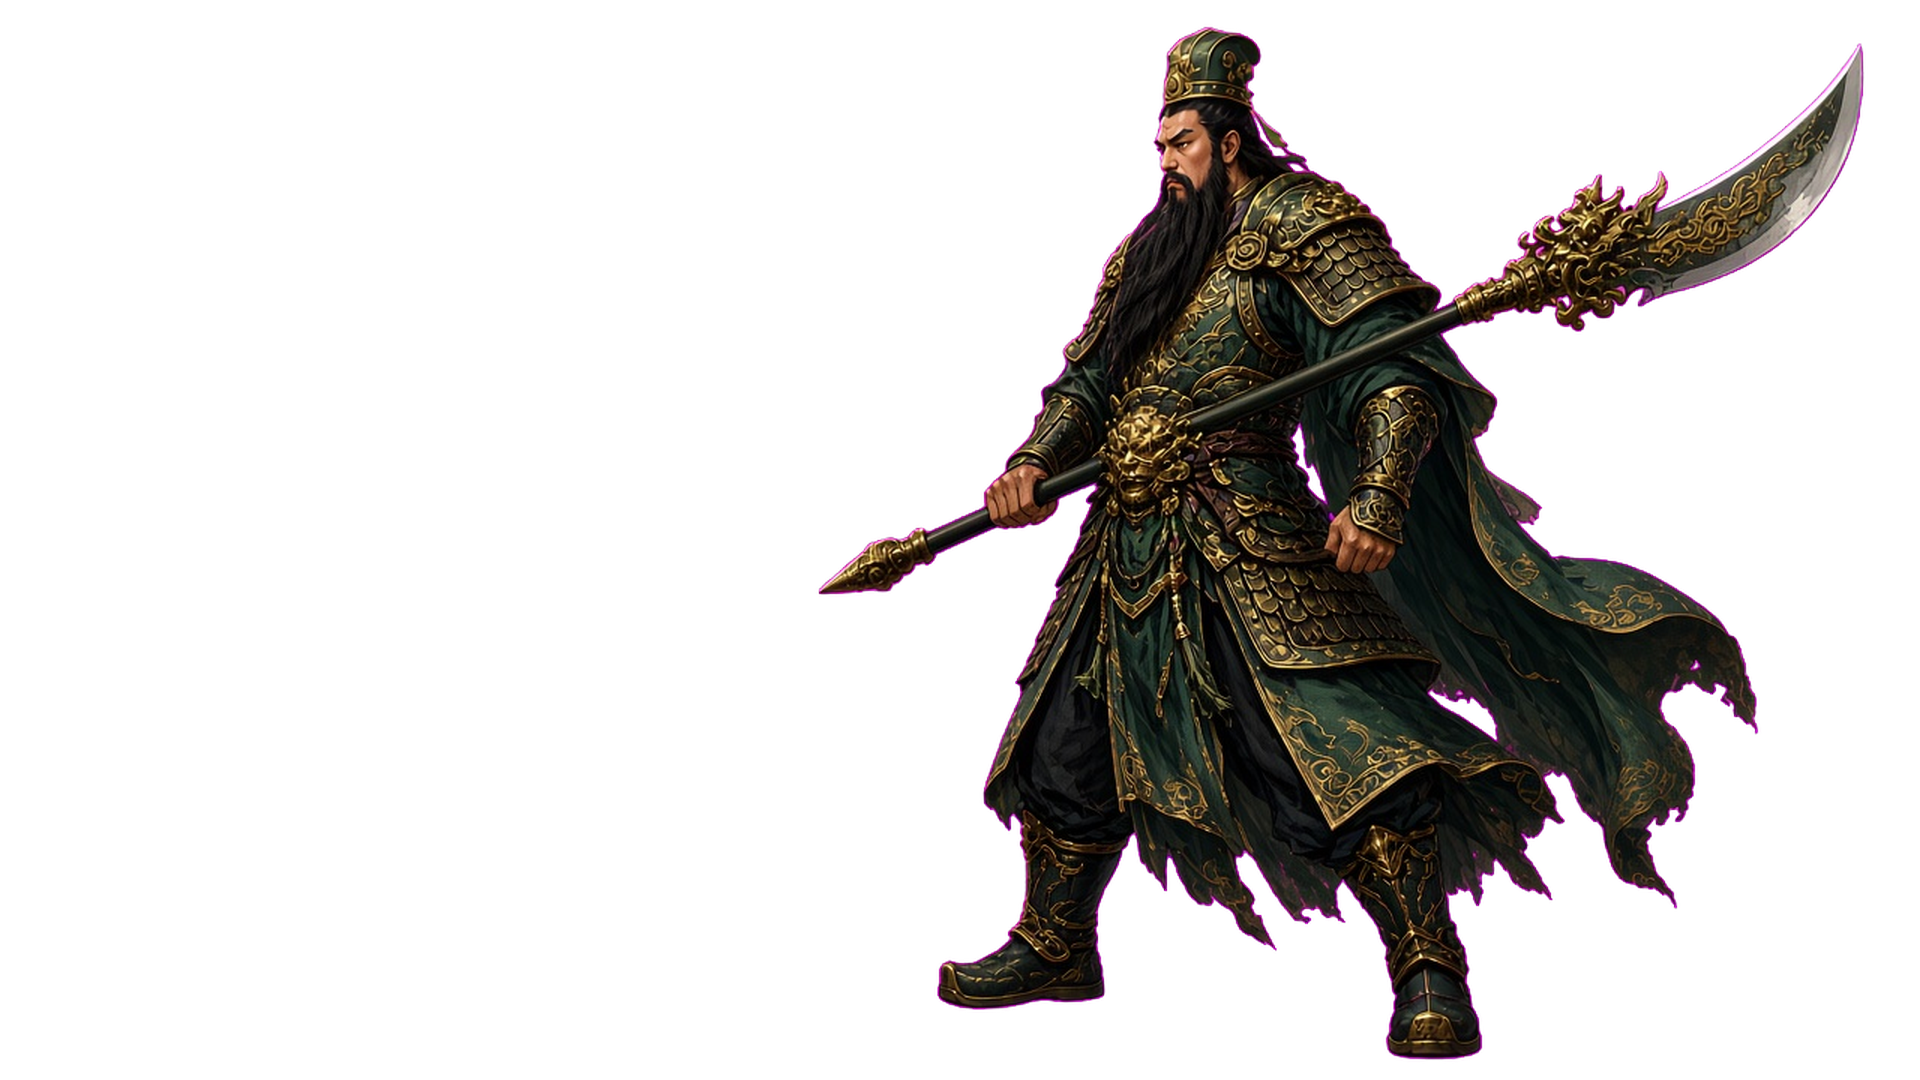
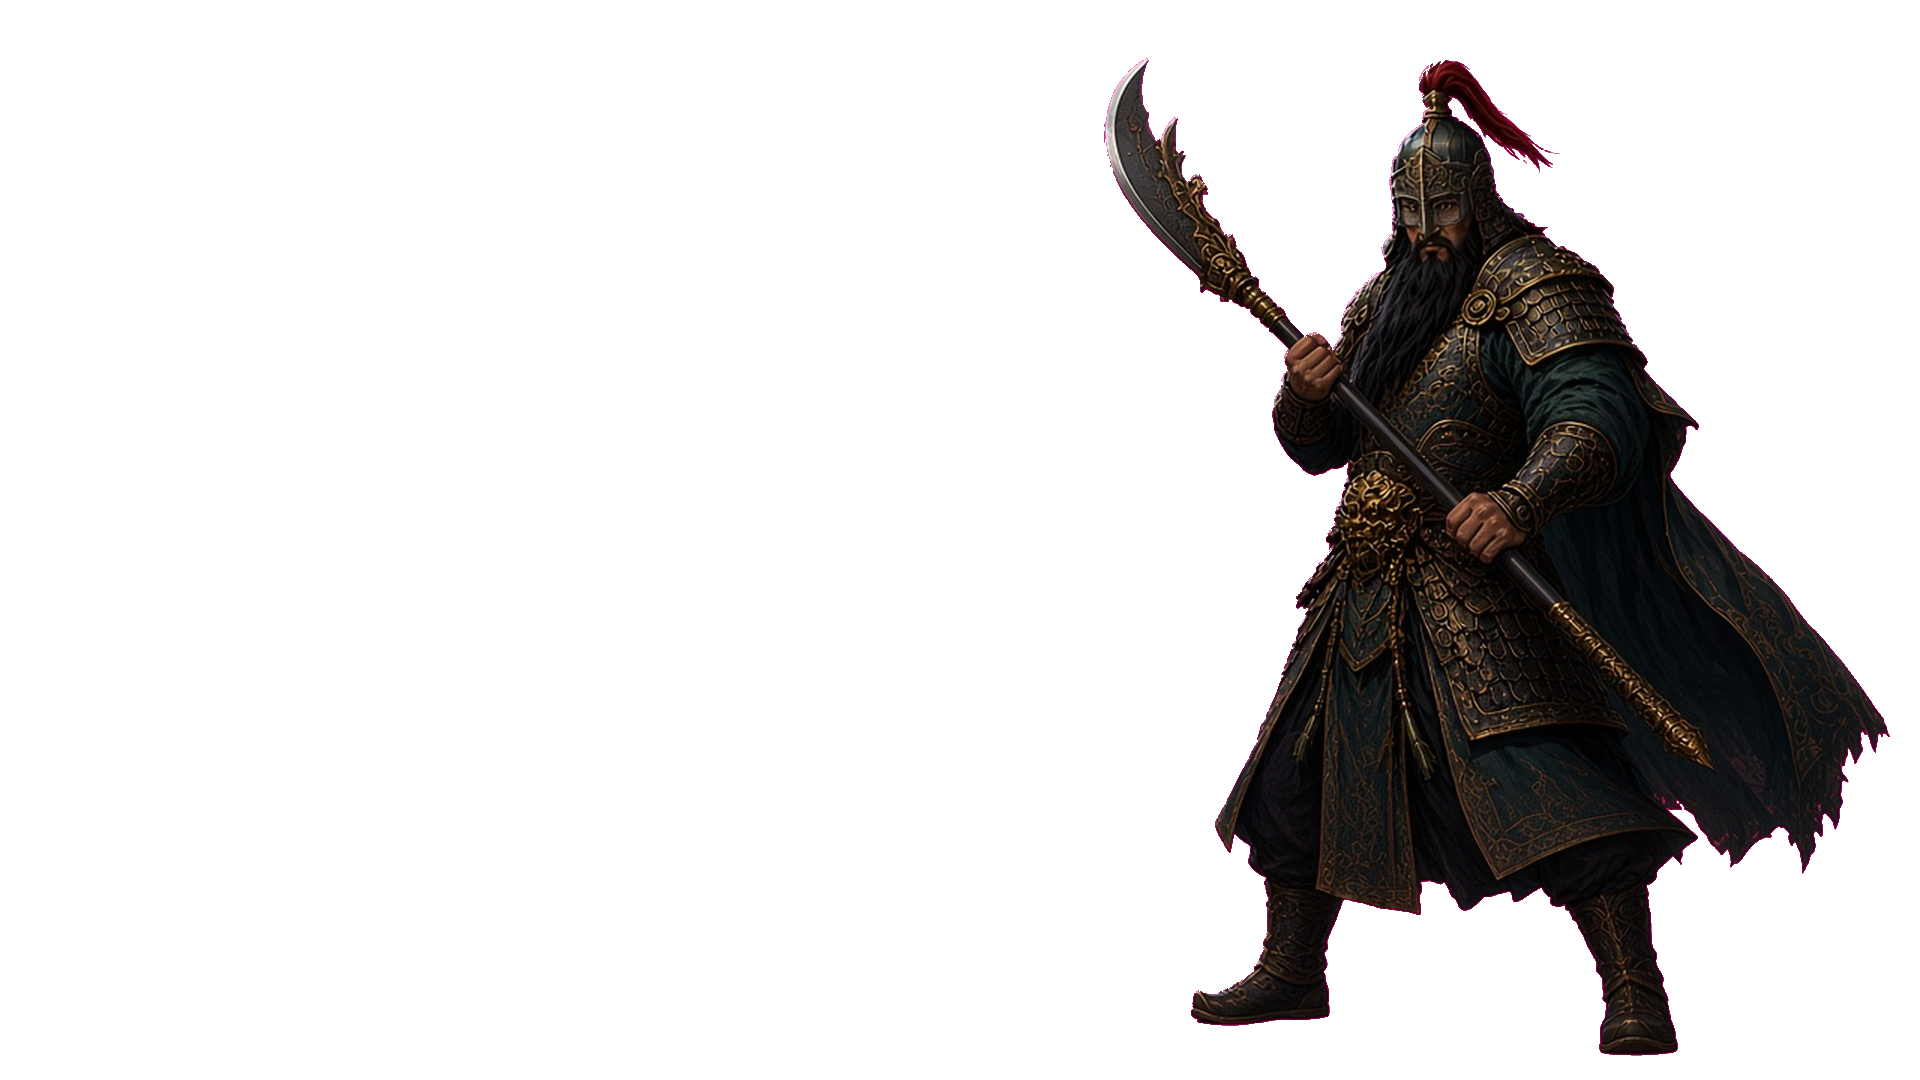
feat(jade-gate): cut the Vanguard exchange with a shot list
Eight beats over ten seconds: an establishing track, a low close-up, a push-in, an over-the-shoulder reverse, a whip-pan, a blade close-up with a short shake, then a pull-back to a wide. Zhao Yun stays screen-left. The rival's polearm stays in his hands.

Changed region(s): [[0.4062, 0.0306, 1.0, 1.0]]

diff --git a/prototype/jade-gate/capscreens-fight-designs/fight-designs.js b/prototype/jade-gate/capscreens-fight-designs/fight-designs.js
@@ -13,21 +13,111 @@ const CAMERAS = {
 };
 
 const ORDER = ["standoff", "windup", "charge", "impact", "pass", "hold", "aftermath"];
-/** Layered Vanguard exchange. Zooms stay near 1 so the gate stays readable. ~10.4s. */
+/** Layered Vanguard shot list. ~10s. Yun stays screen-left, the vanguard screen-right. */
+const EASE = {
+  track: "cubic-bezier(0.25, 0.1, 0.25, 1)",
+  push: "cubic-bezier(0.22, 0.7, 0.2, 1)",
+  whip: "cubic-bezier(0.55, 0.05, 0.25, 1)",
+  pull: "cubic-bezier(0.16, 0.84, 0.3, 1)",
+  cut: "linear",
+};
 const LAYER_CAMERAS = {
-  approach: { zoom: 1.0, x: 50, y: 54, ease: 0, label: "wide, gate readable", ms: 1600 },
-  feint: { zoom: 1.04, x: 48, y: 52, ease: 480, label: "feint, gate holds", ms: 1400 },
-  parry: { zoom: 1.06, x: 50, y: 50, ease: 260, label: "parry, gate holds", ms: 1200 },
-  exchange: { zoom: 1.08, x: 50, y: 50, ease: 240, label: "exchange, gate holds", ms: 1400 },
-  impact: { zoom: 1.12, x: 50, y: 48, ease: 0, label: "tip-clash, gate still reads", ms: 1600 },
-  follow: { zoom: 1.04, x: 50, y: 52, ease: 400, label: "follow-through", ms: 1400 },
-  aftermath: { zoom: 1.0, x: 50, y: 54, ease: 640, label: "wide aftermath", ms: 1800 },
+  approach: {
+    size: "wide",
+    angle: "frontal",
+    move: "slow track",
+    easeName: "track",
+    from: { zoom: 1.03, x: 46, y: 52 },
+    zoom: 1.05, x: 54, y: 50,
+    ease: 1550,
+    ms: 1700,
+    label: "establishing wide · frontal · slow track",
+  },
+  windup: {
+    size: "CU",
+    angle: "low, Yun",
+    move: "hard cut, hold",
+    easeName: "cut",
+    zoom: 1, x: 50, y: 50,
+    ease: 0,
+    ms: 1000,
+    file: "angle-low.png",
+    label: "face CU · low angle · hold",
+  },
+  feint: {
+    size: "medium two-shot",
+    angle: "frontal",
+    move: "push-in",
+    easeName: "push",
+    from: { zoom: 1.22, x: 46, y: 50 },
+    zoom: 1.52, x: 50, y: 42,
+    ease: 900,
+    ms: 1200,
+    label: "medium two-shot · frontal · push-in",
+  },
+  ots: {
+    size: "OTS",
+    angle: "behind Yun",
+    move: "hard cut",
+    easeName: "cut",
+    zoom: 1, x: 50, y: 50,
+    ease: 0,
+    ms: 1200,
+    file: "angle-ots.png",
+    label: "over-shoulder · reverse · cut",
+  },
+  exchange: {
+    size: "medium two-shot",
+    angle: "frontal",
+    move: "whip-pan",
+    easeName: "whip",
+    from: { zoom: 1.42, x: 36, y: 44 },
+    zoom: 1.5, x: 64, y: 42,
+    ease: 220,
+    ms: 1000,
+    label: "medium two-shot · frontal · whip-pan",
+  },
+  impact: {
+    size: "CU",
+    angle: "frontal, blades",
+    move: "hold, gentle shake",
+    easeName: "cut",
+    zoom: 1, x: 50, y: 50,
+    ease: 0,
+    ms: 1600,
+    file: "angle-blades.png",
+    shake: true,
+    label: "blade CU · frontal · hold",
+  },
+  follow: {
+    size: "medium to wide",
+    angle: "frontal",
+    move: "pull-back",
+    easeName: "pull",
+    from: { zoom: 1.48, x: 50, y: 44 },
+    zoom: 1.06, x: 50, y: 54,
+    ease: 1100,
+    ms: 1400,
+    label: "pull-back · frontal · to wide",
+  },
+  aftermath: {
+    size: "wide",
+    angle: "frontal",
+    move: "settle",
+    easeName: "pull",
+    from: { zoom: 1.06, x: 50, y: 54 },
+    zoom: 1, x: 50, y: 56,
+    ease: 700,
+    ms: 900,
+    label: "wide · frontal · settle",
+  },
 };
 const LAYER_BEATS = Object.keys(LAYER_CAMERAS);
 const LAYER_LABELS = {
   approach: "Approach",
+  windup: "Wind-up",
   feint: "Feint",
-  parry: "Parry",
+  ots: "Reverse",
   exchange: "Exchange",
   impact: "Impact",
   follow: "Follow",
@@ -85,6 +175,7 @@ let beat = "approach";
 let playing = false;
 let timer = 0;
 let insertTimer = 0;
+let camToken = 0;
 
 function rel(path) {
   return `${ROOT}${path}`;
@@ -104,15 +195,38 @@ function activeOrder() {
   return layered && design.cutout ? LAYER_BEATS : ORDER;
 }
 
+function writeCam(camera, frame) {
+  camera.style.setProperty("--cam-x", `${frame.x}%`);
+  camera.style.setProperty("--cam-y", `${frame.y}%`);
+  camera.style.setProperty("--cam-z", String(frame.zoom));
+}
+
 function applyCamera(name) {
   const cam = cameraFor(name);
   const stage = $("stage");
   const camera = $("camera");
-  stage.dataset.cut = cam.ease === 0 ? "hard" : "ease";
-  camera.style.setProperty("--cam-ms", `${cam.ease}ms`);
-  camera.style.setProperty("--cam-x", `${cam.x}%`);
-  camera.style.setProperty("--cam-y", `${cam.y}%`);
-  camera.style.setProperty("--cam-z", String(cam.zoom));
+  const token = ++camToken;
+  stage.dataset.move = cam.easeName || "";
+  camera.style.setProperty("--cam-ease", EASE[cam.easeName] || EASE.push);
+  if (!cam.from) {
+    stage.dataset.cut = cam.ease ? "ease" : "hard";
+    camera.style.setProperty("--cam-ms", `${cam.ease || 0}ms`);
+    writeCam(camera, cam);
+    return cam;
+  }
+  const start = { ...cam, ...cam.from };
+  stage.dataset.cut = "hard";
+  camera.style.setProperty("--cam-ms", "0ms");
+  writeCam(camera, start);
+  requestAnimationFrame(() => {
+    if (token !== camToken) return;
+    requestAnimationFrame(() => {
+      if (token !== camToken) return;
+      stage.dataset.cut = "ease";
+      camera.style.setProperty("--cam-ms", `${cam.ease}ms`);
+      writeCam(camera, cam);
+    });
+  });
   return cam;
 }
 
@@ -143,7 +257,20 @@ function showBaked(name, read) {
 
 function showLayers(name, read) {
   const stage = $("stage");
+  const cam = cameraFor(name);
   stage.dataset.source = "layered";
+  const fx = $("layer-fx");
+  fx.hidden = true;
+  if (cam.file) {
+    $("layers").hidden = true;
+    const plate = $("plate");
+    plate.hidden = false;
+    plate.src = `${CUTOUT}${cam.file}`;
+    plate.alt = `${design.title}, Zhao Yun with a jian, ${read}`;
+    $("cam-read").textContent = `${read} · layered`;
+    $("status").textContent = `${design.title} · layered · ${read} · ${CUTOUT}${cam.file}`;
+    return;
+  }
   $("plate").hidden = true;
   $("layers").hidden = false;
   $("layer-bg").src = `${CUTOUT}bg.png`;
@@ -151,15 +278,7 @@ function showLayers(name, read) {
   $("layer-hero").alt = `${design.title}, Zhao Yun with a jian, ${read}`;
   $("layer-rival").src = `${CUTOUT}rival-${name}.png`;
   $("layer-rival").alt = `${design.title}, vanguard, ${read}`;
-  const fx = $("layer-fx");
   const files = [`bg.png`, `hero-${name}.png`, `rival-${name}.png`];
-  if (name === "impact") {
-    fx.src = `${CUTOUT}fx-impact.png`;
-    fx.hidden = false;
-    files.push("fx-impact.png");
-  } else {
-    fx.hidden = true;
-  }
   $("cam-read").textContent = `${read} · layered`;
   $("status").textContent = `${design.title} · layered · ${read} · ${CUTOUT} (${files.join(", ")})`;
 }
@@ -174,7 +293,8 @@ function show(name, { fx = false } = {}) {
   }
   if (layered && design.cutout && LAYER_BEATS.includes(name)) showLayers(name, read);
   else showBaked(name, read);
-  if (name === "impact" && fx) hit();
+  if (cam.shake && fx) hit(cam);
+  else if (name === "impact" && fx) hit(cam);
   else clearHit();
 }
 
@@ -186,17 +306,20 @@ function restart(node, className) {
 
 function clearHit() {
   clearTimeout(insertTimer);
-  $("stage").classList.remove("quake");
+  $("stage").classList.remove("quake", "quake-soft");
   $("flash").classList.remove("on");
   $("impact-frame").classList.remove("boom");
   $("insert").classList.remove("flash");
   $("insert").hidden = true;
 }
 
-function hit() {
+function hit(cam) {
   clearHit();
+  if (layered && design.cutout) {
+    if (cam && cam.shake) restart($("stage"), "quake-soft");
+    return;
+  }
   restart($("stage"), "quake");
-  if (layered && design.cutout) return;
   restart($("flash"), "on");
   restart($("impact-frame"), "boom");
   if (!design.insert) return;
@@ -285,6 +408,12 @@ function preload(item) {
     image.src = `${CUTOUT}${file}`;
   }
   for (const name of LAYER_BEATS) {
+    const cam = LAYER_CAMERAS[name];
+    if (cam.file) {
+      const image = new Image();
+      image.src = `${CUTOUT}${cam.file}`;
+      continue;
+    }
     for (const who of ["hero", "rival"]) {
       const image = new Image();
       image.src = `${CUTOUT}${who}-${name}.png`;

diff --git a/prototype/jade-gate/capscreens-fight-designs/fight-designs.css b/prototype/jade-gate/capscreens-fight-designs/fight-designs.css
@@ -80,8 +80,8 @@ h1 {
   inset: 0;
   transform-origin: var(--cam-x, 50%) var(--cam-y, 46%);
   transform: scale(var(--cam-z, 1));
-  transition: transform var(--cam-ms, 480ms) cubic-bezier(0.22, 0.7, 0.2, 1),
-    transform-origin var(--cam-ms, 480ms) ease;
+  transition: transform var(--cam-ms, 480ms) var(--cam-ease, cubic-bezier(0.22, 0.7, 0.2, 1)),
+    transform-origin var(--cam-ms, 480ms) var(--cam-ease, cubic-bezier(0.22, 0.7, 0.2, 1));
 }
 
 .stage[data-cut="hard"] .camera { transition: none; }
@@ -179,6 +179,7 @@ h1 {
 }
 
 .stage.quake { animation: cam-quake 0.42s linear both; }
+.stage.quake-soft { animation: cam-quake-soft 0.7s ease-out both; }
 
 .flash {
   position: absolute;
@@ -253,6 +254,12 @@ a { color: var(--muted); }
   80% { translate: 0.35% -0.2%; }
 }
 
+@keyframes cam-quake-soft {
+  0%, 100% { translate: 0 0; }
+  30% { translate: -0.35% 0.18%; }
+  60% { translate: 0.28% -0.12%; }
+}
+
 @keyframes white-flash {
   0% { opacity: 0; }
   18% { opacity: 0.92; }
@@ -286,6 +293,7 @@ a { color: var(--muted); }
 
 @media (prefers-reduced-motion: reduce) {
   .stage.quake,
+  .stage.quake-soft,
   .flash.on,
   .impact-frame.boom,
   .impact-frame.boom::before,

diff --git a/prototype/jade-gate/capscreens-fight-designs/preview.html b/prototype/jade-gate/capscreens-fight-designs/preview.html
@@ -9,7 +9,7 @@
 <body>
 <main>
   <h1>Fight designs</h1>
-  <p class="lede">V1 animatic on every fight: the camera crops the baked plates. Gate Vanguard Clash defaults to a layered exchange of about ten seconds — approach, feint, parry, a second exchange, the tip clash, follow-through, aftermath. The gate, banners, and night stay readable. Zhao Yun is on the left with a jian. The other four fights stay on the baked plates.</p>
+  <p class="lede">V1 animatic on every fight: the camera crops the baked plates. Gate Vanguard Clash plays a ten-second exchange with an establishing track, a low close-up, a push-in, an over-the-shoulder reverse, a whip-pan, a blade close-up with a short shake, then a pull-back to a wide. Zhao Yun stays on the left with a jian. The other four fights stay on the baked plates.</p>
   <div id="cards" class="cards"></div>
   <div id="stage" class="stage" data-beat="standoff">
     <div id="camera" class="camera">

diff --git a/prototype/jade-gate/capscreens-fight-designs/README.md b/prototype/jade-gate/capscreens-fight-designs/README.md
@@ -15,19 +15,22 @@ The four fights without cutouts, and Vanguard when the toggle is set to baked pl
 
 Baked playback also opens on the shot standoff when that plate exists, and flashes pass and hold between impact and aftermath.
 
-## Vanguard layers
+## Vanguard shot list
 
-About 10.4 seconds. The camera stays wide enough that the gate, banners, and night stay recognizable. Impact only tightens to 1.12.
+Ten seconds. Zhao Yun stays screen-left and the vanguard screen-right. Wides keep the gate readable. The blade close-up is its own plate, with a small spark in the painting, not a full-frame white burst.
 
-1. **approach** — 1.6s, wide
-2. **feint** — 1.4s
-3. **parry** — 1.2s
-4. **exchange** — 1.4s
-5. **impact** — 1.6s, tip clash, small spark, gate still reads
-6. **follow** — 1.4s, follow-through
-7. **aftermath** — 1.8s, wide
+| Beat | Time | Size | Angle | Move |
+| --- | --- | --- | --- | --- |
+| approach | 1.7s | wide | frontal | slow track across the arena |
+| windup | 1.0s | close-up | low, on Zhao Yun | hard cut, hold |
+| feint | 1.2s | medium two-shot | frontal | push-in |
+| ots | 1.2s | over-the-shoulder | behind Yun, rival facing camera | hard cut |
+| exchange | 1.0s | medium two-shot | frontal | whip-pan into the strike |
+| impact | 1.6s | close-up | frontal, blades and hands | hold and a gentle shake |
+| follow | 1.4s | medium to wide | frontal | pull-back |
+| aftermath | 0.9s | wide | frontal | settle |
 
-`assets/fight/ep1-vanguard/`, bottom to top: `bg.png`, `hero-{beat}.png`, `rival-{beat}.png`, and a small crop of `fx-impact.png` on impact only. The Layered / Baked control falls back to the v1 plates.
+`approach`, `feint`, `exchange`, `follow`, and `aftermath` composite `bg.png`, `hero-{beat}.png`, and `rival-{beat}.png`. The rival cutouts are the same man in every one of those beats: dark iron lamellar, closed helmet, narrow visor, short crimson tassel, and the polearm stays in his hands on screen-right. `windup` uses `angle-low.png`, `ots` uses `angle-ots.png`, and `impact` uses `angle-blades.png`. The Layered / Baked control falls back to the v1 plates.
 
 ## The five designs
 
